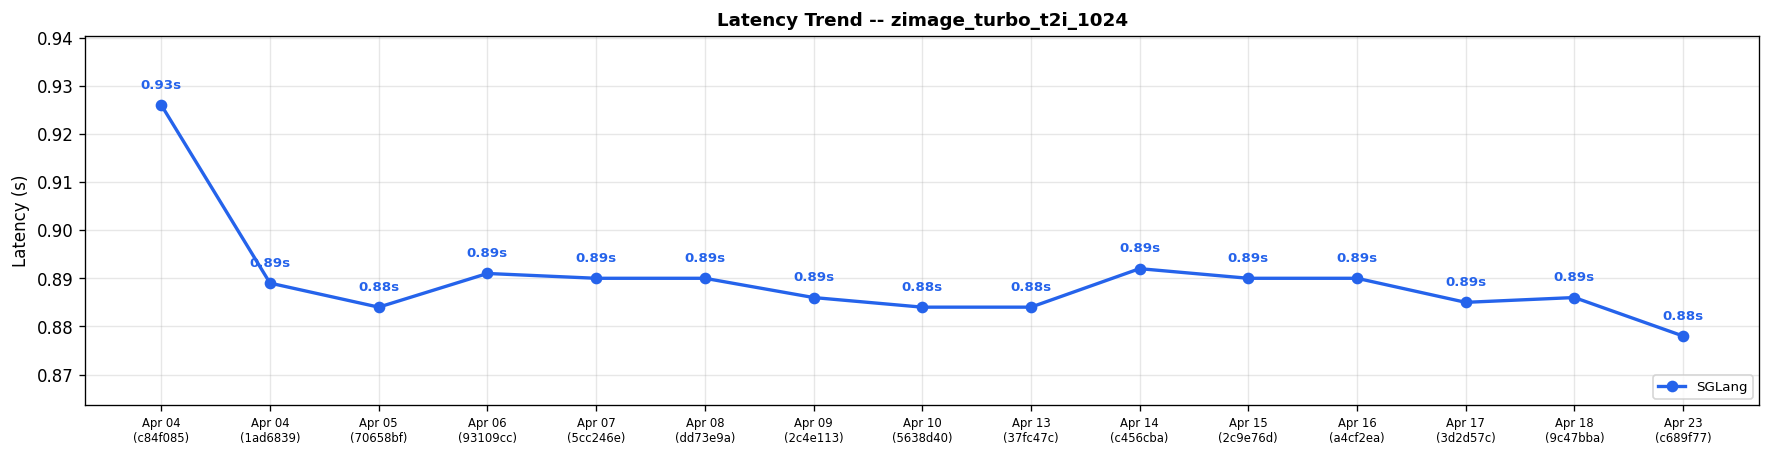
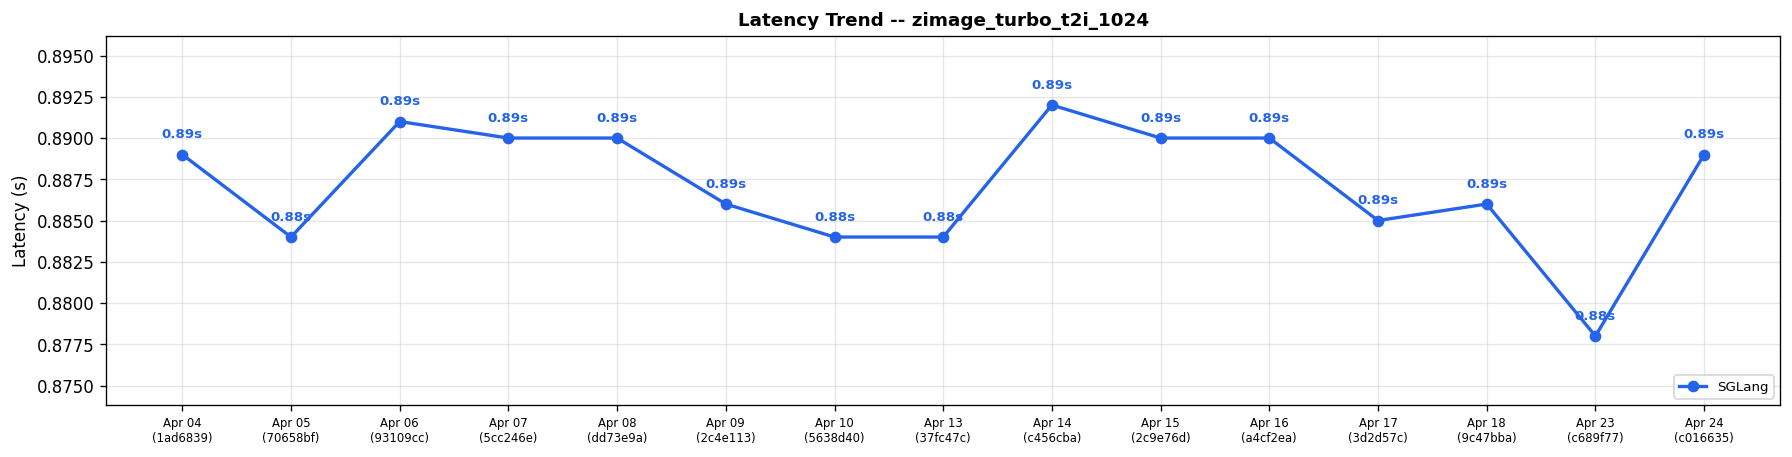
Diffusion comparison results for run 24866511893 (#578)

diff --git a/diffusion-comparisons/dashboard.md b/diffusion-comparisons/dashboard.md
@@ -1,27 +1,28 @@
 # Diffusion Cross-Framework Performance Dashboard
 
-*Generated: Apr 23 | Commit: `c689f77`*
+*Generated: Apr 24 | Commit: `c016635`*
 
 > [!WARNING]
 > **Performance Regression Detected**
 >
-> - **ltx2_twostage_t2v** (sglang): 15.32s -> 16.75s (+9.3%)
+> - **qwen_image_2512_t2i_1024** (sglang): 13.03s -> 13.77s (+5.6%)
+> - **ltx2.3_twostage_ti2v_2gpus** (sglang): 58.19s -> 69.23s (+19.0%)
 
 
 ## Cross-Framework Performance Comparison
 
 | Model | Risk | sglang (s) |
 |-------|------|---------|
-| FLUX.1-dev | ✅ | **6.60** |
-| FLUX.2-dev | ✅ | **22.62** |
-| Qwen-Image-2512 | ✅ | **13.03** |
-| Qwen-Image-Edit-2511 | ✅ | **23.68** |
-| Z-Image-Turbo | ✅ | **0.88** |
-| Wan2.2-T2V-A14B-Diffusers | ❌ | N/A |
-| Wan2.2-TI2V-5B-Diffusers | ❌ | N/A |
-| LTX-2 | ⚠ | **16.75** |
-| LTX-2.3 | ✅ | **58.19** |
-| Wan2.2-I2V-A14B-Diffusers | ❌ | N/A |
+| FLUX.1-dev | ✅ | **6.71** |
+| FLUX.2-dev | ✅ | **22.81** |
+| Qwen-Image-2512 | ⚠ | **13.77** |
+| Qwen-Image-Edit-2511 | ✅ | **23.83** |
+| Z-Image-Turbo | ✅ | **0.89** |
+| Wan2.2-T2V-A14B-Diffusers | ✅ | **211.38** |
+| Wan2.2-TI2V-5B-Diffusers | ✅ | **62.22** |
+| LTX-2 | ✅ | **16.09** |
+| LTX-2.3 | ⚠ | **69.23** |
+| Wan2.2-I2V-A14B-Diffusers | ✅ | **209.67** |
 
 ### Latency Trend: flux1_dev_t2i_1024
 
@@ -77,6 +78,7 @@
 
 | Date | Commit | flux1_dev_t2i_1024 (s) | flux2_dev_t2i_1024 (s) | qwen_image_2512_t2i_1024 (s) | qwen_image_edit_2511 (s) | zimage_turbo_t2i_1024 (s) | wan22_t2v_a14b_720p (s) | wan22_ti2v_5b_720p (s) | ltx2_twostage_t2v (s) | ltx2.3_twostage_ti2v_2gpus (s) | wan22_i2v_a14b_720p (s) | Trend |
 |------|--------|---------|---------|---------|---------|---------|---------|---------|---------|---------|---------|-------|
+| Apr 24 | `c016635` | 6.71 | 22.81 | 13.77 | 23.83 | 0.89 | 211.38 | 62.22 | 16.09 | 69.23 | 209.67 | :left_right_arrow:  :left_right_arrow:  :arrow_up:  :left_right_arrow:  :left_right_arrow:    :arrow_down:  :arrow_up:  |
 | Apr 23 | `c689f77` | 6.60 | 22.62 | 13.03 | 23.68 | 0.88 | N/A | N/A | 16.75 | 58.19 | N/A | :left_right_arrow:  :left_right_arrow:  :left_right_arrow:  :left_right_arrow:  :left_right_arrow:    :arrow_up:  :arrow_down:  |
 | Apr 18 | `9c47bba` | 6.68 | 22.82 | 13.13 | 23.78 | 0.89 | 210.45 | 62.17 | 15.32 | 60.19 | 206.66 | :left_right_arrow:  :left_right_arrow:  :left_right_arrow:  :left_right_arrow:  :left_right_arrow:  :left_right_arrow:  :left_right_arrow:  :left_right_arrow:  :arrow_down:  :left_right_arrow: |
 | Apr 17 | `3d2d57c` | 6.69 | 22.82 | 13.12 | 23.80 | 0.89 | 210.28 | 62.19 | 15.47 | 62.20 | 205.63 | :left_right_arrow:  :left_right_arrow:  :arrow_down:  :left_right_arrow:  :left_right_arrow:  :left_right_arrow:  :left_right_arrow:  :arrow_up:  :arrow_up:  :left_right_arrow: |
@@ -90,17 +92,14 @@
 | Apr 07 | `5cc246e` | 6.69 | 22.92 | 13.19 | 23.83 | 0.89 | 210.64 | 62.20 | 15.11 | N/A | 207.62 | :left_right_arrow:  :left_right_arrow:  :arrow_down:  :left_right_arrow:  :left_right_arrow:  :left_right_arrow:  :left_right_arrow:  :arrow_up:   :left_right_arrow: |
 | Apr 06 | `93109cc` | 6.70 | 22.86 | 13.61 | 23.92 | 0.89 | 210.73 | 62.15 | 14.13 | N/A | 207.67 | :left_right_arrow:  :left_right_arrow:  :arrow_down:  :left_right_arrow:  :left_right_arrow:  :left_right_arrow:  :left_right_arrow:  :left_right_arrow:   :left_right_arrow: |
 | Apr 05 | `70658bf` | 6.68 | 22.80 | 14.12 | 23.80 | 0.88 | 209.31 | 62.15 | 14.06 | N/A | 204.55 | :left_right_arrow:  :left_right_arrow:  :arrow_up:  :arrow_down:  :left_right_arrow:  :arrow_up:  :arrow_down:    :arrow_up: |
-| Apr 04 | `1ad6839` | 6.71 | 22.85 | 13.56 | 29.57 | 0.89 | 16.10 | 64.20 | N/A | N/A | 21.07 | :arrow_down:  :left_right_arrow:  :arrow_up:  :arrow_up:  :arrow_down:  :arrow_down:  :arrow_up:    :arrow_down: |
-| Apr 04 | `c84f085` | 6.86 | 22.87 | 13.16 | 23.95 | 0.93 | 210.88 | 62.21 | 14.89 | N/A | 206.55 | -- |
+| Apr 04 | `1ad6839` | 6.71 | 22.85 | 13.56 | 29.57 | 0.89 | 16.10 | 64.20 | N/A | N/A | 21.07 | -- |
 
 > [!CAUTION]
 > **Action Required — Performance Alert**
 >
 > The following cases need attention:
-> - wan22_t2v_a14b_720p: SGLang latency is N/A (broken)
-> - wan22_ti2v_5b_720p: SGLang latency is N/A (broken)
-> - ltx2_twostage_t2v: SGLang regression +10.1% vs 3-run avg (16.75s vs 15.21s)
-> - wan22_i2v_a14b_720p: SGLang latency is N/A (broken)
+> - qwen_image_2512_t2i_1024: SGLang regression +5.1% vs 3-run avg (13.77s vs 13.10s)
+> - ltx2.3_twostage_ti2v_2gpus: SGLang regression +15.0% vs 3-run avg (69.23s vs 60.19s)
 
 
 ---
